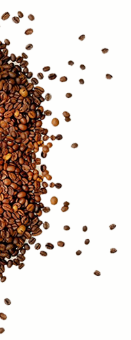
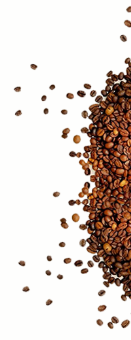
redone bg, put img

diff --git a/index.html b/index.html
@@ -22,9 +22,16 @@
             <li><img src="../CoffeeShop/img/search.png" alt="search" class="search"></li>
           </ul>
     </div>
-    <h1>coffee</h1>
-    <h4><span class="tasty">Tasty Of Dose</span>Cafe</h4>
-
+        <h1>coffee</h1>
+            <h4><span class="tasty">Tasty Of Dose</span>Cafe</h4>
+        <p>more-or-less normal distribution of letters, as opposed to using</p>
+        <div class="mug">
+        <img src="../CoffeeShop/img/mug.png" class="mug" alt="mug">
+    </div>
+    <div>
+        <button></button>
+        <button></button>
+    </div>
 </body>
 
 </html>

diff --git a/css/style.css b/css/style.css
@@ -45,7 +45,7 @@ ul {
 
 }
  .login {
-    padding-left: 200px;
+    padding-left: 100px;
     
     color: #E38773;
  }
@@ -79,4 +79,19 @@ color: #2D2C2C;
     width: 20px;
     height: 20px;
     color: #E38773;
+}
+p {
+    font-size: 17px;
+    line-height: 28px;
+    color: #4a4949;
+    font-weight: 400;
+    font-family: Arial, Helvetica, sans-serif;
+    margin-left: 925px;
+    margin-top: -40px;
+}
+.mug {
+    width: 450px;
+    height: 400px;
+    padding-left: 200px;
+    margin-top: -198px;
 }
